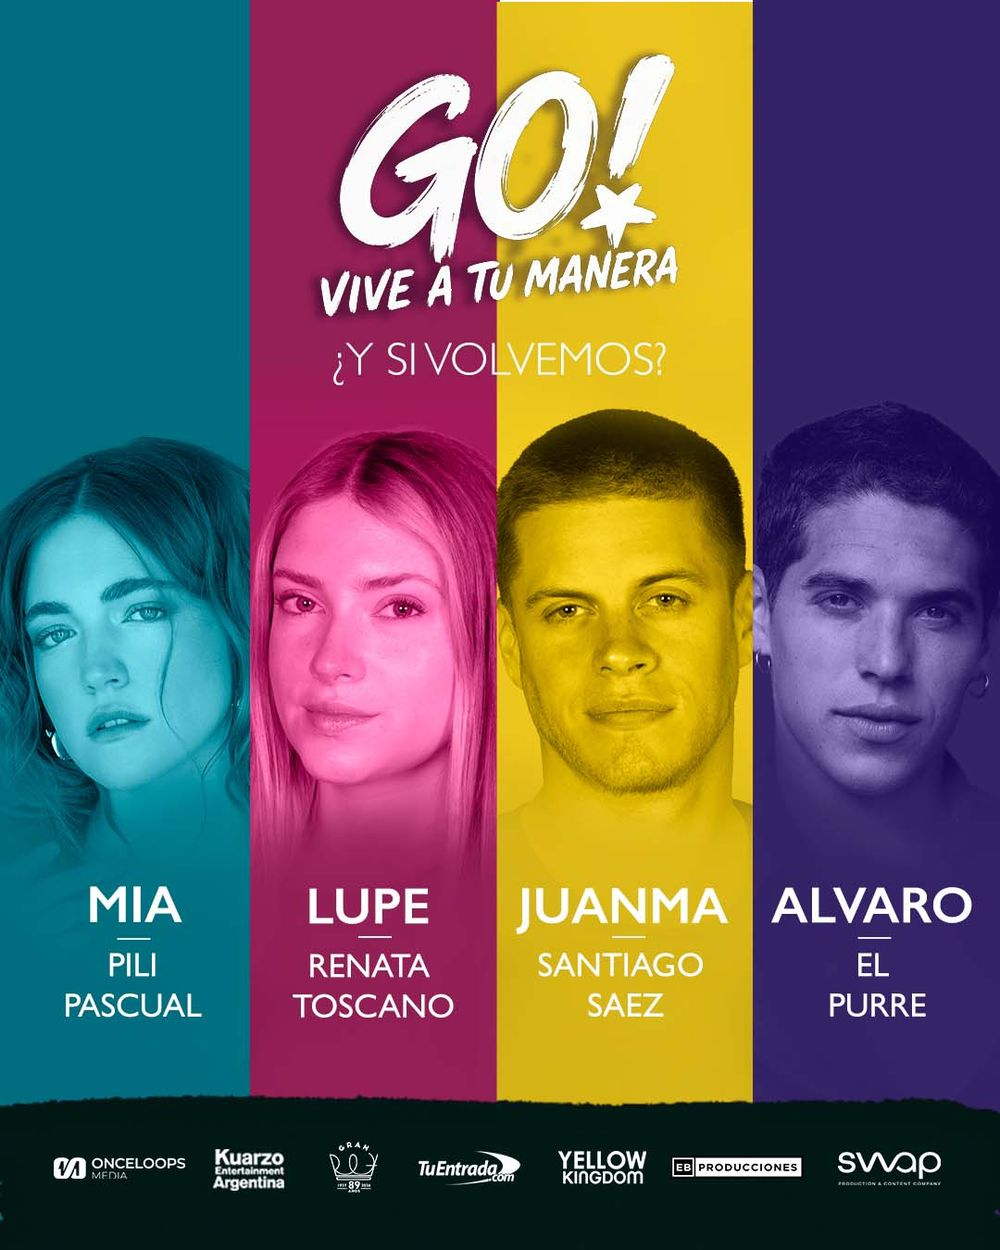
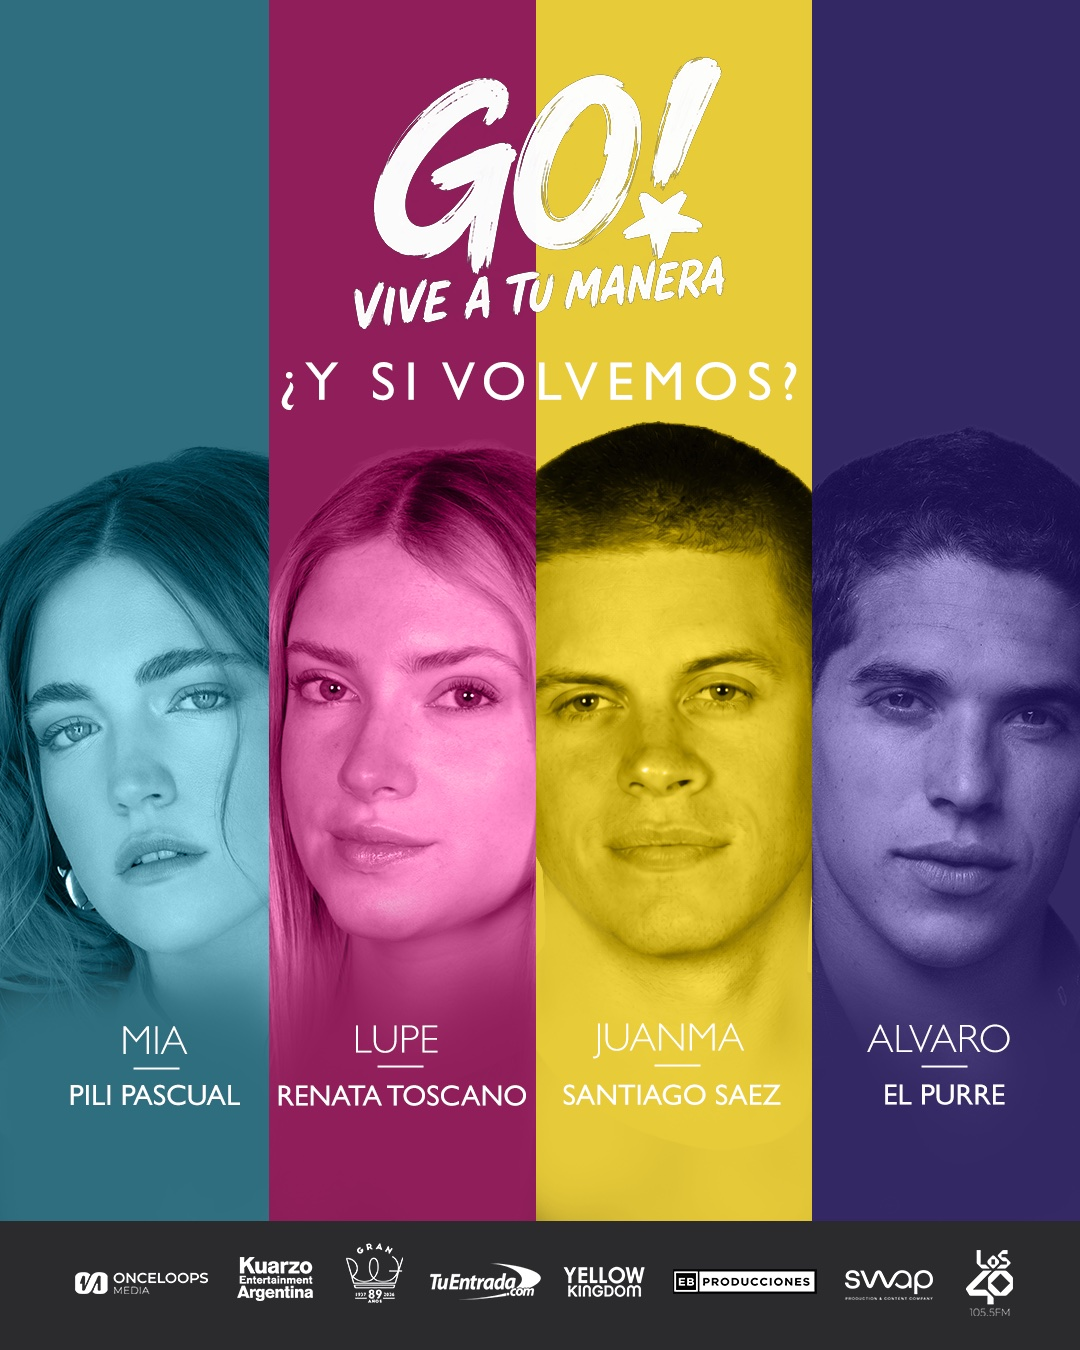
Afiche nuevo (key-visual) y recorte del popup de entradas

diff --git a/style.css b/style.css
@@ -728,7 +728,7 @@ a.ticket:hover .ticket__buy { background: var(--white); }
 }
 .popup__card[hidden] { display: none; }
 .popup__card .ticket__flag { top: -20px; left: -14px; right: auto; transform: rotate(-4deg); animation: none; }
-.popup__img { width: 100%; aspect-ratio: 1000 / 870; object-fit: cover; object-position: center top; margin-bottom: 18px; } /* del afiche: logo + las 4 caras completas */
+.popup__img { width: 100%; aspect-ratio: 1080 / 1010; object-fit: cover; object-position: center top; margin-bottom: 18px; } /* del afiche: logo + las 4 caras completas */
 .popup__kicker { font-size: 14px; letter-spacing: .16em; text-transform: uppercase; opacity: .7; }
 .popup__title { font-family: var(--display); font-weight: 400; font-size: 48px; line-height: .95; color: var(--c); margin: 6px 0 10px; }
 /* botón de pre-save: pastilla verde tipo Spotify con el + de "agregar" */

diff --git a/lanzamientos.html b/lanzamientos.html
@@ -19,7 +19,7 @@
   <link rel="preconnect" href="https://fonts.gstatic.com" crossorigin>
   <link href="https://fonts.googleapis.com/css2?family=Bebas+Neue&family=Permanent+Marker&display=swap" rel="stylesheet">
   <link rel="preload" href="fonts/gillsans.woff" as="font" type="font/woff" crossorigin>
-  <link rel="stylesheet" href="style.css?v=91">
+  <link rel="stylesheet" href="style.css?v=92">
 </head>
 <body class="is-ready page-lanzamientos">
 

diff --git a/como-llegar.html b/como-llegar.html
@@ -19,7 +19,7 @@
   <link rel="preconnect" href="https://fonts.gstatic.com" crossorigin>
   <link href="https://fonts.googleapis.com/css2?family=Bebas+Neue&family=Permanent+Marker&display=swap" rel="stylesheet">
   <link rel="preload" href="fonts/gillsans.woff" as="font" type="font/woff" crossorigin>
-  <link rel="stylesheet" href="style.css?v=91">
+  <link rel="stylesheet" href="style.css?v=92">
 </head>
 <body class="is-ready page-como-llegar">
 

diff --git a/merch.html b/merch.html
@@ -20,7 +20,7 @@
   <link rel="preconnect" href="https://fonts.gstatic.com" crossorigin>
   <link href="https://fonts.googleapis.com/css2?family=Bebas+Neue&family=Permanent+Marker&display=swap" rel="stylesheet">
   <link rel="preload" href="fonts/gillsans.woff" as="font" type="font/woff" crossorigin>
-  <link rel="stylesheet" href="style.css?v=91">
+  <link rel="stylesheet" href="style.css?v=92">
 </head>
 <body class="is-ready page-merch">
 

diff --git a/index.html b/index.html
@@ -19,7 +19,7 @@
   <link rel="preconnect" href="https://fonts.gstatic.com" crossorigin>
   <link href="https://fonts.googleapis.com/css2?family=Bebas+Neue&family=Permanent+Marker&display=swap" rel="stylesheet">
   <link rel="preload" href="fonts/gillsans.woff" as="font" type="font/woff" crossorigin>
-  <link rel="stylesheet" href="style.css?v=91">
+  <link rel="stylesheet" href="style.css?v=92">
 </head>
 <body class="is-loading">
 
